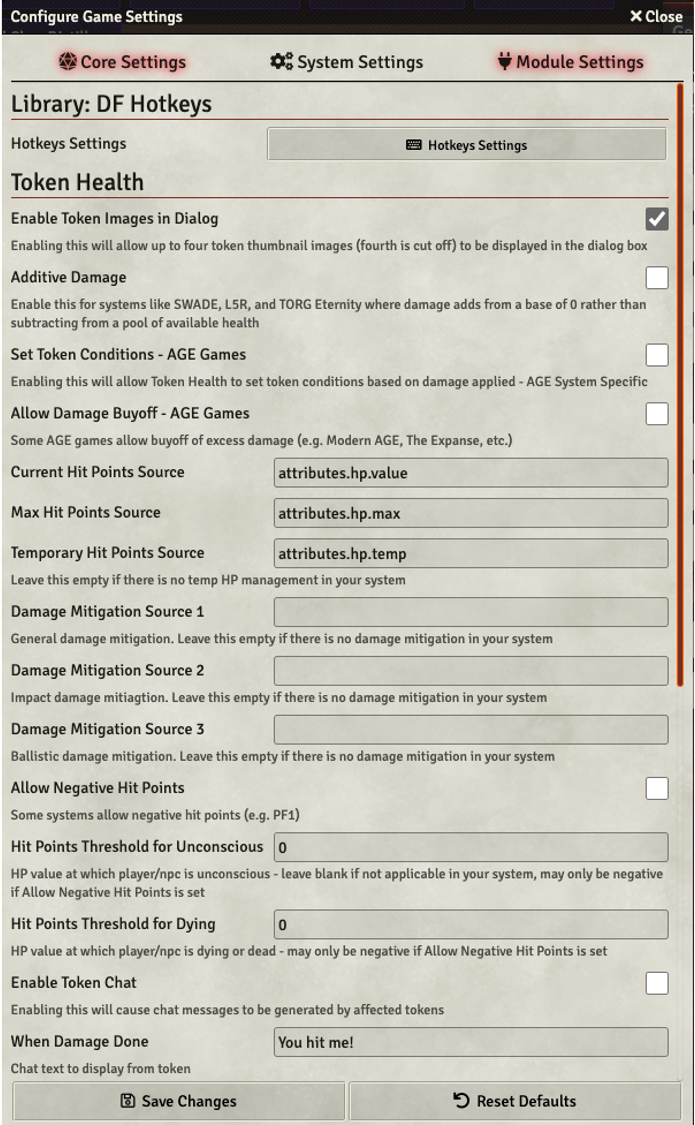
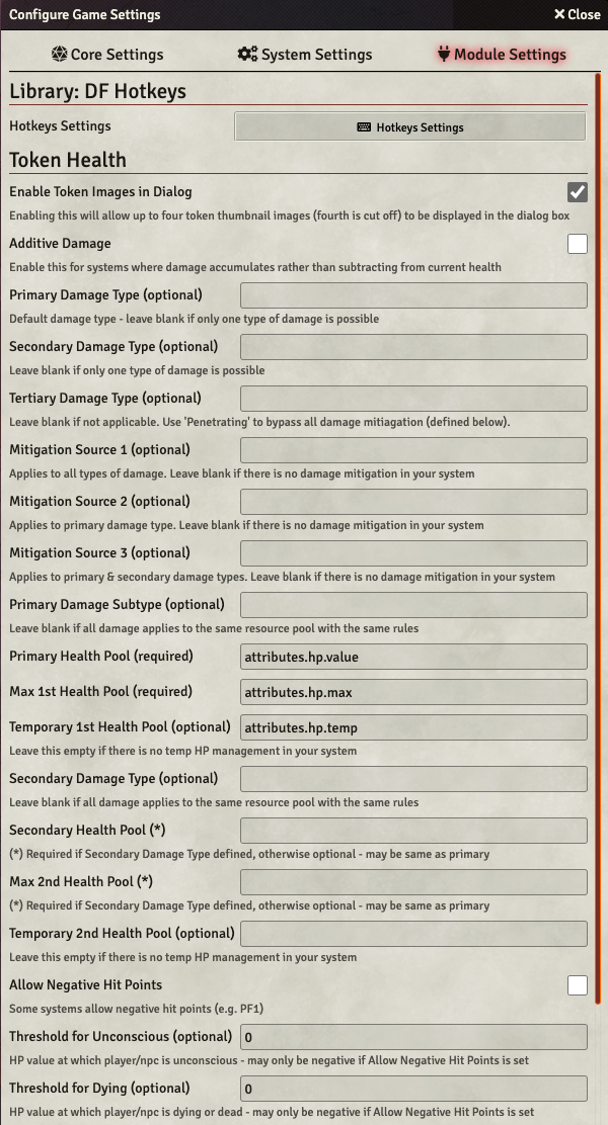
Config Settings UI Improvements
Reorganized and condensed to make clearer and easier. Identified optional parameters vs. required.

Changed region(s): [[0.0, 0.0, 1.0, 1.0]]

diff --git a/settings.js b/settings.js
@@ -286,30 +286,6 @@ export default () => {
       CONFIG.ADDITIVE_DAMAGE = key;
     },
   });
-  // Enable/Disable Setting Condition s (AGE System Specific)
-  CONFIG.ENABLE_CONDITIONS = initSetting('enableConditions', {
-    name: i18n('TOKEN_HEALTH.enableConditions'),
-    hint: i18n('TOKEN_HEALTH.enableConditionsHint'),
-    type: Boolean,
-    default: DEFAULT.ENABLE_CONDITIONS,
-    scope: 'world',
-    config: true,
-    onChange: key => {
-      CONFIG.ENABLE_CONDITIONS = key;
-    },
-  });
-  // Permit Buyoff of Damage (AGE System Specific)
-  CONFIG.ALLOW_DAMAGE_BUYOFF = initSetting('allowDamageBuyoff', {
-    name: i18n('TOKEN_HEALTH.allowDamageBuyoff'),
-    hint: i18n('TOKEN_HEALTH.allowDamageBuyoffHint'),
-    type: Boolean,
-    default: DEFAULT.ALLOW_DAMAGE_BUYOFF,
-    scope: 'world',
-    config: true,
-    onChange: key => {
-      CONFIG.ALLOW_DAMAGE_BUYOFF = key;
-    },
-  });
   // Primary damage type (optional)
   CONFIG.DAMAGE_TYPE_1 = initSetting('damageType1', {
     name: i18n('TOKEN_HEALTH.damageType1'),
@@ -346,98 +322,7 @@ export default () => {
       CONFIG.DAMAGE_TYPE_3 = key;
     },
   });
-  // Primary damage subtype (optional)
-  CONFIG.DAMAGE_SUBTYPE_1 = initSetting('damageSubtype1', {
-    name: i18n('TOKEN_HEALTH.damageSubtype1'),
-    hint: i18n('TOKEN_HEALTH.damageSubtype1Hint'),
-    type: String,
-    default: DEFAULT.DAMAGE_SUBTYPE_1,
-    scope: 'world',
-    config: true,
-    onChange: key => {
-      CONFIG.DAMAGE_SUBTYPE_1 = key;
-    },
-  });
-  // Attribute recording current health
-  CONFIG.HITPOINTS_ATTRIBUTE_1 = initSetting('hpSource1', {
-    name: i18n('TOKEN_HEALTH.hp1'),
-    type: String,
-    default: DEFAULT.HITPOINTS_ATTRIBUTE_1,
-    scope: 'world',
-    config: true,
-    onChange: key => {
-      CONFIG.HITPOINTS_ATTRIBUTE_1 = key;
-    },
-  });
-  // Attribute recording max possible health
-  CONFIG.MAX_HITPOINTS_ATTRIBUTE_1 = initSetting('hpSourceMax1', {
-    name: i18n('TOKEN_HEALTH.hpMax1'),
-    type: String,
-    default: DEFAULT.MAX_HITPOINTS_ATTRIBUTE_1,
-    scope: 'world',
-    config: true,
-    onChange: key => {
-      CONFIG.MAX_HITPOINTS_ATTRIBUTE_1 = key;
-    },
-  });
-  // Attribute for recording/tracking temporary health
-  CONFIG.TEMP_HITPOINTS_ATTRIBUTE_1 = initSetting('tempHpSource1', {
-    name: i18n('TOKEN_HEALTH.tempHp1'),
-    hint: i18n('TOKEN_HEALTH.tempHpHint'),
-    type: String,
-    default: DEFAULT.TEMP_HITPOINTS_ATTRIBUTE_1,
-    scope: 'world',
-    config: true,
-    onChange: key => {
-      CONFIG.TEMP_HITPOINTS_ATTRIBUTE_1 = key;
-    },
-  });
-  // Secondary damage type (optional)
-  CONFIG.DAMAGE_SUBTYPE_2 = initSetting('damageSubtype2', {
-    name: i18n('TOKEN_HEALTH.damageSubtype2'),
-    hint: i18n('TOKEN_HEALTH.damageSubtype2Hint'),
-    type: String,
-    default: DEFAULT.DAMAGE_SUBTYPE_2,
-    scope: 'world',
-    config: true,
-    onChange: key => {
-      CONFIG.DAMAGE_SUBTYPE_2 = key;
-    },
-  });
-  // Attribute recording current health
-  CONFIG.HITPOINTS_ATTRIBUTE_2 = initSetting('hpSource2', {
-    name: i18n('TOKEN_HEALTH.hp2'),
-    type: String,
-    default: DEFAULT.HITPOINTS_ATTRIBUTE_2,
-    scope: 'world',
-    config: true,
-    onChange: key => {
-      CONFIG.HITPOINTS_ATTRIBUTE_2 = key;
-    },
-  });
-  // Attribute recording max possible health
-  CONFIG.MAX_HITPOINTS_ATTRIBUTE_2 = initSetting('hpSourceMax2', {
-    name: i18n('TOKEN_HEALTH.hpMax2'),
-    type: String,
-    default: DEFAULT.MAX_HITPOINTS_ATTRIBUTE_2,
-    scope: 'world',
-    config: true,
-    onChange: key => {
-      CONFIG.MAX_HITPOINTS_ATTRIBUTE_2 = key;
-    },
-  });
-  // Attribute for recording/tracking temporary health
-  CONFIG.TEMP_HITPOINTS_ATTRIBUTE_2 = initSetting('tempHpSource2', {
-    name: i18n('TOKEN_HEALTH.tempHp2'),
-    hint: i18n('TOKEN_HEALTH.tempHpHint'),
-    type: String,
-    default: DEFAULT.TEMP_HITPOINTS_ATTRIBUTE_2,
-    scope: 'world',
-    config: true,
-    onChange: key => {
-      CONFIG.TEMP_HITPOINTS_ATTRIBUTE_2 = key;
-    },
-  });  // Primary damage mitigation attribute (optional)
+  // Primary damage mitigation attribute (optional)
   CONFIG.MITIGATION_ATTRIBUTE_1 = initSetting('mitigationSource1', {
     name: i18n('TOKEN_HEALTH.mitigation1'),
     hint: i18n('TOKEN_HEALTH.mitigation1Hint'),
@@ -471,6 +356,100 @@ export default () => {
     config: true,
     onChange: key => {
       CONFIG.MITIGATION_ATTRIBUTE_3 = key;
+    },
+  });
+  // Primary damage subtype (required)
+  CONFIG.DAMAGE_SUBTYPE_1 = initSetting('damageSubtype1', {
+    name: i18n('TOKEN_HEALTH.damageSubtype1'),
+    hint: i18n('TOKEN_HEALTH.damageSubtype1Hint'),
+    type: String,
+    default: DEFAULT.DAMAGE_SUBTYPE_1,
+    scope: 'world',
+    config: true,
+    onChange: key => {
+      CONFIG.DAMAGE_SUBTYPE_1 = key;
+    },
+  });
+  // Attribute recording current health (required)
+  CONFIG.HITPOINTS_ATTRIBUTE_1 = initSetting('hpSource1', {
+    name: i18n('TOKEN_HEALTH.hp1'),
+    type: String,
+    default: DEFAULT.HITPOINTS_ATTRIBUTE_1,
+    scope: 'world',
+    config: true,
+    onChange: key => {
+      CONFIG.HITPOINTS_ATTRIBUTE_1 = key;
+    },
+  });
+  // Attribute recording max possible health (required)
+  CONFIG.MAX_HITPOINTS_ATTRIBUTE_1 = initSetting('hpSourceMax1', {
+    name: i18n('TOKEN_HEALTH.hpMax1'),
+    type: String,
+    default: DEFAULT.MAX_HITPOINTS_ATTRIBUTE_1,
+    scope: 'world',
+    config: true,
+    onChange: key => {
+      CONFIG.MAX_HITPOINTS_ATTRIBUTE_1 = key;
+    },
+  });
+  // Attribute for recording/tracking temporary health (optional)
+  CONFIG.TEMP_HITPOINTS_ATTRIBUTE_1 = initSetting('tempHpSource1', {
+    name: i18n('TOKEN_HEALTH.tempHp1'),
+    hint: i18n('TOKEN_HEALTH.tempHpHint'),
+    type: String,
+    default: DEFAULT.TEMP_HITPOINTS_ATTRIBUTE_1,
+    scope: 'world',
+    config: true,
+    onChange: key => {
+      CONFIG.TEMP_HITPOINTS_ATTRIBUTE_1 = key;
+    },
+  });
+  // Secondary damage type (optional)
+  CONFIG.DAMAGE_SUBTYPE_2 = initSetting('damageSubtype2', {
+    name: i18n('TOKEN_HEALTH.damageSubtype2'),
+    hint: i18n('TOKEN_HEALTH.damageSubtype2Hint'),
+    type: String,
+    default: DEFAULT.DAMAGE_SUBTYPE_2,
+    scope: 'world',
+    config: true,
+    onChange: key => {
+      CONFIG.DAMAGE_SUBTYPE_2 = key;
+    },
+  });
+  // Attribute recording current health (optional)
+  CONFIG.HITPOINTS_ATTRIBUTE_2 = initSetting('hpSource2', {
+    name: i18n('TOKEN_HEALTH.hp2'),
+    hint: i18n('TOKEN_HEALTH.hpHint'),
+    type: String,
+    default: DEFAULT.HITPOINTS_ATTRIBUTE_2,
+    scope: 'world',
+    config: true,
+    onChange: key => {
+      CONFIG.HITPOINTS_ATTRIBUTE_2 = key;
+    },
+  });
+  // Attribute recording max possible health (optional)
+  CONFIG.MAX_HITPOINTS_ATTRIBUTE_2 = initSetting('hpSourceMax2', {
+    name: i18n('TOKEN_HEALTH.hpMax2'),
+    hint: i18n('TOKEN_HEALTH.hpHint'),
+    type: String,
+    default: DEFAULT.MAX_HITPOINTS_ATTRIBUTE_2,
+    scope: 'world',
+    config: true,
+    onChange: key => {
+      CONFIG.MAX_HITPOINTS_ATTRIBUTE_2 = key;
+    },
+  });
+  // Attribute for recording/tracking temporary health (optional)
+  CONFIG.TEMP_HITPOINTS_ATTRIBUTE_2 = initSetting('tempHpSource2', {
+    name: i18n('TOKEN_HEALTH.tempHp2'),
+    hint: i18n('TOKEN_HEALTH.tempHpHint'),
+    type: String,
+    default: DEFAULT.TEMP_HITPOINTS_ATTRIBUTE_2,
+    scope: 'world',
+    config: true,
+    onChange: key => {
+      CONFIG.TEMP_HITPOINTS_ATTRIBUTE_2 = key;
     },
   });
   // Enable/Disable allowing health to go negative
@@ -507,6 +486,30 @@ export default () => {
     config: true,
     onChange: key => {
       CONFIG.DEATH_THRESHOLD = key;
+    },
+  });
+  // Enable/Disable Setting Condition s (AGE System Specific)
+  CONFIG.ENABLE_CONDITIONS = initSetting('enableConditions', {
+    name: i18n('TOKEN_HEALTH.enableConditions'),
+    hint: i18n('TOKEN_HEALTH.enableConditionsHint'),
+    type: Boolean,
+    default: DEFAULT.ENABLE_CONDITIONS,
+    scope: 'world',
+    config: true,
+    onChange: key => {
+      CONFIG.ENABLE_CONDITIONS = key;
+    },
+  });
+  // Permit Buyoff of Damage (AGE System Specific)
+  CONFIG.ALLOW_DAMAGE_BUYOFF = initSetting('allowDamageBuyoff', {
+    name: i18n('TOKEN_HEALTH.allowDamageBuyoff'),
+    hint: i18n('TOKEN_HEALTH.allowDamageBuyoffHint'),
+    type: Boolean,
+    default: DEFAULT.ALLOW_DAMAGE_BUYOFF,
+    scope: 'world',
+    config: true,
+    onChange: key => {
+      CONFIG.ALLOW_DAMAGE_BUYOFF = key;
     },
   });
   // Enable/Disable token chat messages
